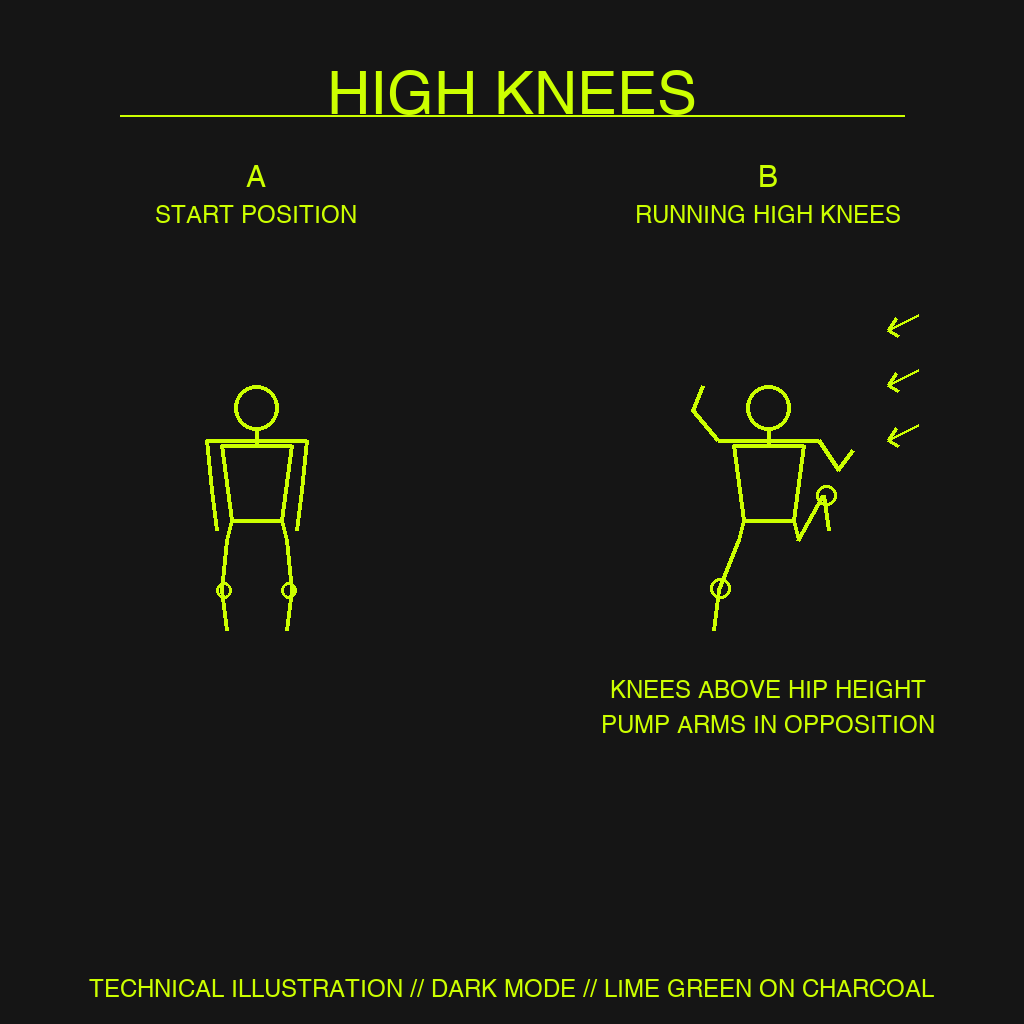
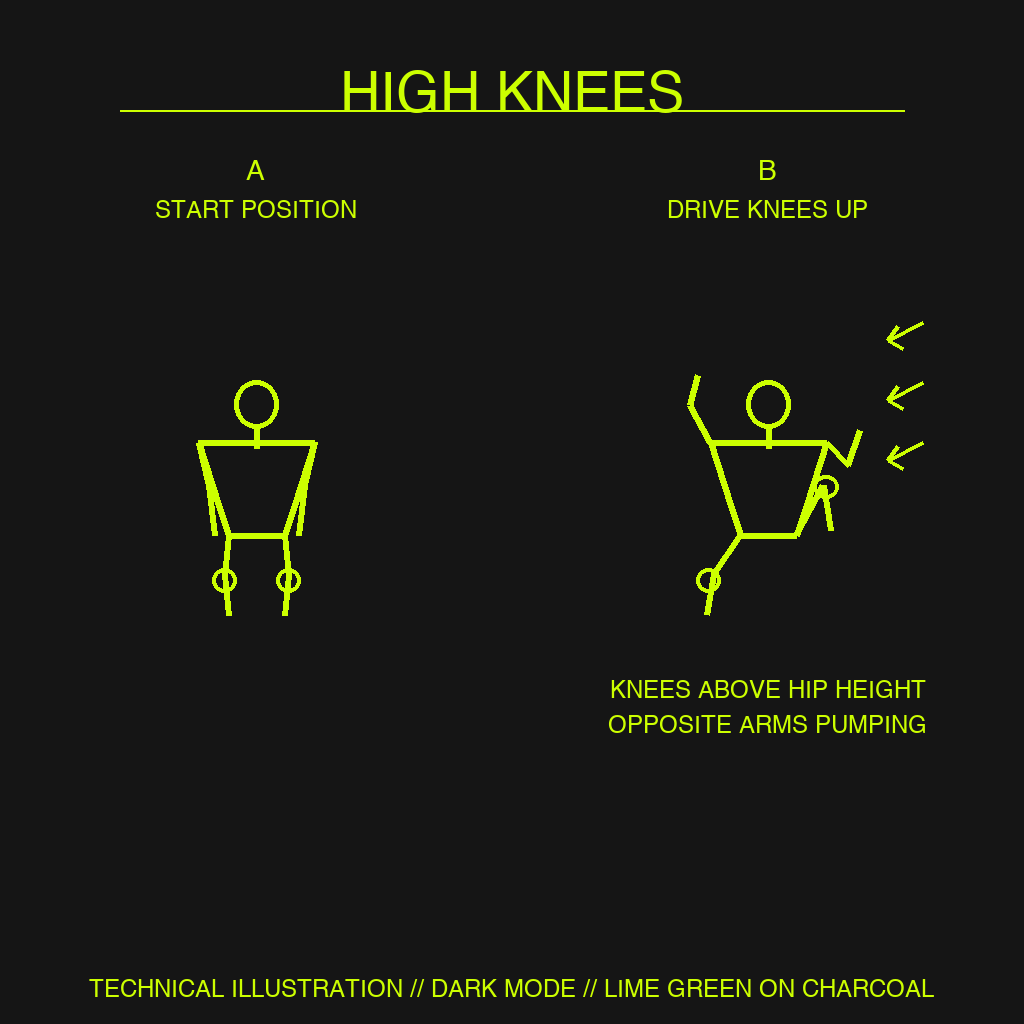
fix: voces desde gesture + high knees mejorada + calentamiento plank jack

diff --git a/src/lib/audio.ts b/src/lib/audio.ts
@@ -88,23 +88,23 @@ function preloadVoicesInternal(): void {
 // Unlock AudioContext on first user interaction (required by Android WebView)
 export function unlockAudio() {
   if (audioUnlocked) return;
-  resumeContext().then(() => {
-    audioUnlocked = true;
-  });
-  // Also warm up speech synthesis
+  audioUnlocked = true;
+
+  resumeContext().catch(() => {});
+
+  // Warm up speech synthesis with a real but tiny utterance inside the user gesture.
+  // WebView allows subsequent speaks from timers once the engine has been primed.
   if (typeof window !== "undefined" && "speechSynthesis" in window) {
     try {
       preloadVoicesInternal();
-      const utter = new SpeechSynthesisUtterance(" ");
+      if (window.speechSynthesis.paused) window.speechSynthesis.resume();
+      const utter = new SpeechSynthesisUtterance("ok");
       utter.volume = 0.01;
-      utter.rate = 1.5;
+      utter.rate = 1.8;
+      if (preferredVoice) utter.voice = preferredVoice;
+      utter.lang = preferredVoice?.lang || "es-ES";
+      // No cancel — cancel often deadlocks WebView TTS.
       window.speechSynthesis.speak(utter);
-      // Do NOT cancel immediately on WebView; let the engine initialise
-      setTimeout(() => {
-        try {
-          window.speechSynthesis.cancel();
-        } catch {}
-      }, 400);
     } catch {}
   }
 }
@@ -113,7 +113,7 @@ export function unlockAudio() {
 if (typeof window !== "undefined") {
   const events = ["touchstart", "touchend", "click", "pointerdown"];
   events.forEach((ev) => {
-    window.addEventListener(ev, unlockAudio, { once: true, passive: true });
+    window.addEventListener(ev, unlockAudio, { once: true, passive: true, capture: true });
   });
   preloadVoicesInternal();
 }
@@ -292,93 +292,46 @@ export function playSetFlash(): void {
   haptics.tick();
 }
 
-// ── Speech Synthesis Queue ──
+// ── Speech Synthesis (WebView-safe) ──
 
-interface SpeakJob {
-  text: string;
-  pitch: number;
-  rate: number;
-  volume: number;
-}
+let lastUtterance: SpeechSynthesisUtterance | null = null;
 
-const speakQueue: SpeakJob[] = [];
-let isSpeaking = false;
-
-function processSpeakQueue(): void {
-  if (isSpeaking || speakQueue.length === 0) return;
-  if (isAudioSilent() || !isVoiceAllowed()) {
-    speakQueue.length = 0;
-    return;
-  }
+function doSpeak(text: string, pitch: number, rate: number): void {
   if (typeof window === "undefined" || !("speechSynthesis" in window)) return;
+  if (isAudioSilent() || !isVoiceAllowed()) return;
 
-  const job = speakQueue.shift();
-  if (!job) return;
-  isSpeaking = true;
-
-  // Resume/unlock audio context FIRST, then load voices, then speak
-  Promise.resolve()
-    .then(() => unlockAudio())
-    .then(() => resumeContext())
-    .then(() => {
-      if (!voicesLoaded) {
-        loadVoicesNow();
-        preloadVoicesInternal();
-      }
-
-      const utter = new SpeechSynthesisUtterance(job.text);
+  // Load voices and unlock audio context
+  if (!voicesLoaded) {
+    loadVoicesNow();
+    preloadVoicesInternal();
+  }
+  unlockAudio();
+  resumeContext().then(() => {
+    try {
+      // Android WebView TTS works better when we do NOT cancel first.
+      // Cancelling often kills the engine state and the next utterance is dropped.
+      const utter = new SpeechSynthesisUtterance(text);
       if (preferredVoice) utter.voice = preferredVoice;
       utter.lang = preferredVoice?.lang || "es-ES";
-      utter.pitch = job.pitch;
-      utter.rate = job.rate;
-      utter.volume = job.volume;
+      utter.pitch = pitch;
+      utter.rate = rate;
+      utter.volume = 1;
 
-      const safetyTimeout = setTimeout(() => {
-        isSpeaking = false;
-        processSpeakQueue();
-      }, 6000);
+      // Some WebViews stall if the previous utterance is still referenced
+      lastUtterance = utter;
 
-      utter.onend = () => {
-        clearTimeout(safetyTimeout);
-        isSpeaking = false;
-        setTimeout(processSpeakQueue, 80);
-      };
-      utter.onerror = (e) => {
-        clearTimeout(safetyTimeout);
-        console.warn("TTS error:", e);
-        isSpeaking = false;
-        setTimeout(processSpeakQueue, 80);
-      };
+      // Force resume (required for Chrome/WebView)
+      if (window.speechSynthesis.paused) window.speechSynthesis.resume();
 
-      try {
-        window.speechSynthesis.cancel();
-        window.speechSynthesis.speak(utter);
-      } catch (err) {
-        clearTimeout(safetyTimeout);
-        console.warn("Speech synthesis error:", err);
-        isSpeaking = false;
-        processSpeakQueue();
-      }
-    });
+      window.speechSynthesis.speak(utter);
+    } catch (err) {
+      console.warn("TTS speak error:", err);
+    }
+  });
 }
 
 export function speak(text: string, pitch: number = voicePitch, rate: number = voiceRate): void {
-  if (isAudioSilent() || !isVoiceAllowed()) return;
-  if (typeof window === "undefined" || !("speechSynthesis" in window)) return;
-
-  // Ensure audio context is unlocked
-  unlockAudio();
-  resumeContext();
-
-  // WebView sometimes returns empty voices on first call; try to load now
-  if (!voicesLoaded && !loadVoicesNow()) {
-    preloadVoicesInternal();
-  }
-
-  speakQueue.push({ text, pitch, rate, volume: 1 });
-  if (!isSpeaking) {
-    processSpeakQueue();
-  }
+  doSpeak(text, pitch, rate);
 }
 
 export function speakWithQueue(text: string, priority: "normal" | "high" = "normal"): void {
@@ -386,21 +339,18 @@ export function speakWithQueue(text: string, priority: "normal" | "high" = "norm
   if (typeof window === "undefined" || !("speechSynthesis" in window)) return;
 
   if (priority === "high") {
-    // Clear queue and interrupt current speech for urgent announcements
     stopSpeaking();
-    speakQueue.length = 0;
-    speak(text);
-  } else {
-    speak(text);
   }
+  speak(text);
 }
 
 export function stopSpeaking(): void {
   if (typeof window !== "undefined" && "speechSynthesis" in window) {
-    window.speechSynthesis.cancel();
+    try {
+      window.speechSynthesis.cancel();
+    } catch {}
   }
-  isSpeaking = false;
-  speakQueue.length = 0;
+  lastUtterance = null;
 }
 
 // ── Announcements (voice + beep + vibration) ──

diff --git a/src/app/workout/guided/page.tsx b/src/app/workout/guided/page.tsx
@@ -15,6 +15,7 @@ import {
   announceRest,
   setAudioMode as setGlobalAudioMode,
   setVoiceRate as setGlobalVoiceRate,
+  getVoiceRate,
   unlockAudio,
 } from "@/lib/audio";
 import { haptics } from "@/lib/haptics";
@@ -135,7 +136,17 @@ export default function GuidedWorkout() {
     setExerciseReps(currentExercise.id, reps);
 
     triggerFeedback();
-    if (audioEnabled) {
+    // Speak directly within the user gesture to satisfy WebView audio policies
+    if (audioEnabled && audioMode !== "silent" && typeof window !== "undefined" && "speechSynthesis" in window) {
+      unlockAudio();
+      try {
+        const utter = new SpeechSynthesisUtterance("Serie completada");
+        utter.lang = "es-ES";
+        utter.rate = voiceRate || 1.05;
+        window.speechSynthesis.speak(utter);
+      } catch {}
+      announceExerciseComplete();
+    } else if (audioEnabled) {
       announceExerciseComplete();
     }
 

diff --git a/src/lib/data.ts b/src/lib/data.ts
@@ -956,13 +956,13 @@ export const plans: Plan[] = [
 export const warmUpExercises = [
   {
     id: "wu-1",
-    name: "Rotación articular",
+    name: "Plancha Jack",
     sets: 1,
-    reps: "10 círculos",
+    reps: "30s",
     restSeconds: 60,
     equipment: "bodyweight" as const,
-    description: "Tobillos, rodillas, cadera, hombros",
-    image: getImg("joint_rotations"),
+    description: "Core activado, pies abren y cierran sin mover los hombros.",
+    image: getImg("plank_jack"),
   },
   {
     id: "wu-2",

diff --git a/src/app/workout/individual/page.tsx b/src/app/workout/individual/page.tsx
@@ -221,6 +221,11 @@ export default function IndividualWorkout() {
     const isLastSet = currentSet >= currentExercise.sets;
     const remainingSets = currentExercise.sets - currentSet;
 
+    // Prime TTS inside the user gesture, then let the audio engine handle the announcement queue
+    if (audioEnabled && audioMode !== "silent" && typeof window !== "undefined" && "speechSynthesis" in window) {
+      unlockAudio();
+    }
+
     if (audioEnabled) {
       if (isLastSet) {
         announceExerciseComplete();
